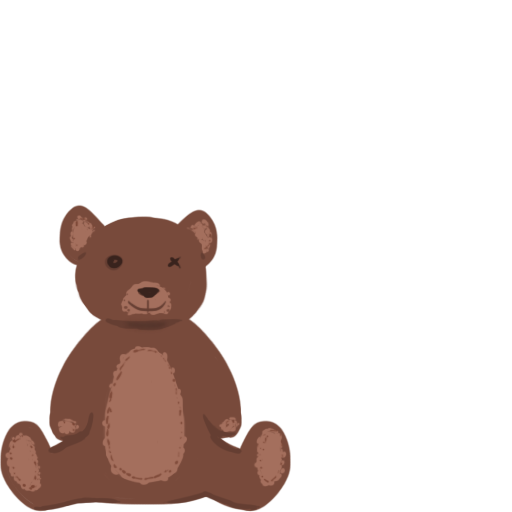
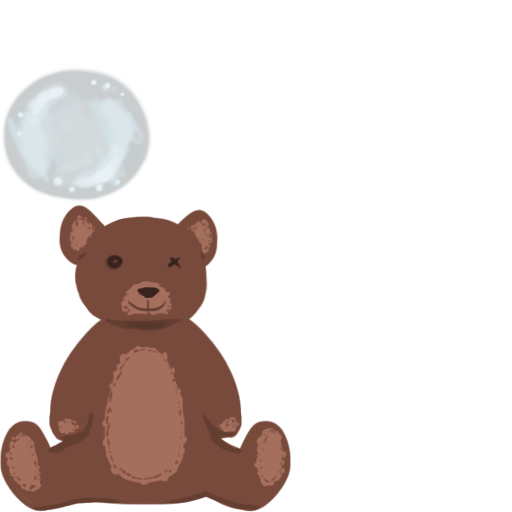
Total drops in level select

Changed region(s): [[0.0, 0.125, 0.3125, 0.4062]]

diff --git a/Bad Dreams/Assets/TotalDropsMainMenu.cs b/Bad Dreams/Assets/TotalDropsMainMenu.cs
@@ -1,0 +1,33 @@
+using UnityEngine;
+using System.Collections;
+using SaveSystem;
+
+public class TotalDropsMainMenu : MonoBehaviour
+{
+    private UILabel uiLabel;
+    private bool statusUpdated;
+
+    private void Start()
+    {
+        uiLabel = GetComponentInChildren<UILabel>();
+
+        if (SaveManager.CurrentSave != null)
+        {
+            uiLabel.text = SaveManager.CurrentSave.Drops.ToString();
+        }
+    }
+
+    private void Update()
+    {
+        if (!statusUpdated)
+        {
+            uiLabel.text = SaveManager.CurrentSave.Drops.ToString();
+            statusUpdated = true;
+        }
+    }
+
+    private void OnEnable()
+    {
+        statusUpdated = false;
+    }
+}
